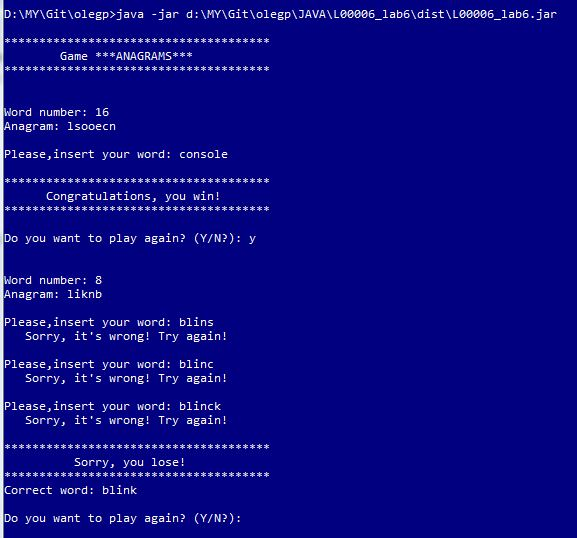
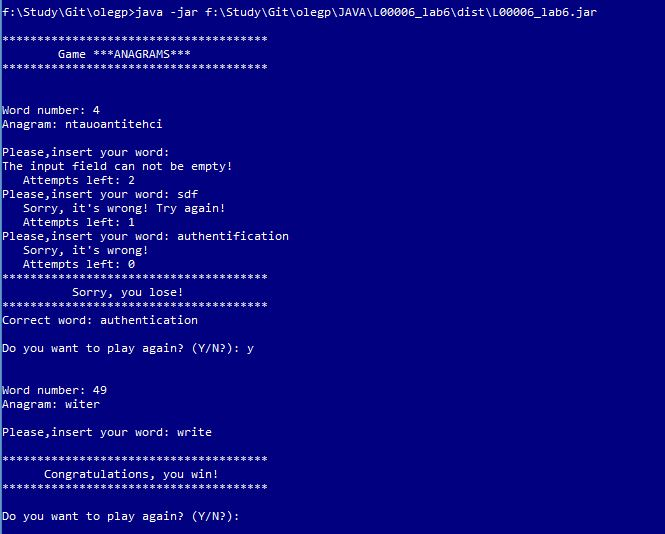
lab6

Changed region(s): [[0.0, 0.0, 0.9671, 1.0]]

diff --git a/JAVA/L00006_lab6/src/by/bsu/ibmt/groupPV115PO/porohnenko/model/logic/GameLogic.java b/JAVA/L00006_lab6/src/by/bsu/ibmt/groupPV115PO/porohnenko/model/logic/GameLogic.java
@@ -9,12 +9,14 @@
 package by.bsu.ibmt.groupPV115PO.porohnenko.model.logic;
 
 import by.bsu.ibmt.groupPV115PO.porohnenko.controller.Anagrams;
+import by.bsu.ibmt.groupPV115PO.porohnenko.model.util.ArrayCleaner;
 import by.bsu.ibmt.groupPV115PO.porohnenko.model.util.WordSelector;
 import by.bsu.ibmt.groupPV115PO.porohnenko.view.ConsoleView;
 
 public class GameLogic {
 
-    public static char[] array = WordSelector.getSimpleArray();
+    private static char[] array;
+    private static int attempt = 2;
 
     public static boolean Checker(char[] userWord) {
 
@@ -27,18 +29,35 @@ public class GameLogic {
     }
 
     public static void logic() {
-        for (int i = 0; i <= 2; i++) {
+        for (int i = 0; i <= attempt; i++) {
+
             //message for user
             ConsoleView.MessageInsertWord();
             ConsoleView.inputData();
 
-            if (GameLogic.Checker(ConsoleView.getUserWord())) {
-                ConsoleView.MessageWin();
-                break;
+            ArrayCleaner.cleaner(WordSelector.getSimpleArray());
+            array = ArrayCleaner.getClearArr();
+
+            if (ConsoleView.getUserArray().length != 0) {
+                if (ConsoleView.getUserArray().length == array.length) {
+                    if (GameLogic.Checker(ConsoleView.getUserWord())) {
+                        ConsoleView.MessageWin();
+                        break;
+                    }
+                } else {
+                    if (i < attempt) {
+                        ConsoleView.printMessage("   Sorry, it's wrong! Try again!\n");
+                    } else {
+                        ConsoleView.printMessage("   Sorry, it's wrong!\n");
+                    }
+                    System.out.printf("   Attempts left: %d", attempt - i);
+                }
             } else {
-                ConsoleView.printMessage("   Sorry, it's wrong! Try again!\n");
+                ConsoleView.printMessage("The input field can not be empty!\n");
+                System.out.printf("   Attempts left: %d", attempt - i);
             }
-            if (i == 2) {
+
+            if (i == attempt) {
                 ConsoleView.MessageLose();
                 ConsoleView.printMessage("Correct word: ");
                 ConsoleView.printMassiv(WordSelector.init(Anagrams.getIndex()));

diff --git a/JAVA/L00006_lab6/src/by/bsu/ibmt/groupPV115PO/porohnenko/view/ConsoleView.java b/JAVA/L00006_lab6/src/by/bsu/ibmt/groupPV115PO/porohnenko/view/ConsoleView.java
@@ -13,7 +13,8 @@ import java.util.Scanner;
 
 public class ConsoleView {
 
-    public static char[] userArray;
+    private static char[] userArray;
+    private static String line;
 
     public static void printNumber(int number) {
         System.out.println("\n\nWord number: " + number);
@@ -26,9 +27,13 @@ public class ConsoleView {
     public static char[] inputData() {
 
         Scanner sc = new Scanner(System.in);
-        String line = sc.nextLine();
+        line = sc.nextLine();
         userArray = line.toCharArray();
 
+        return userArray;
+    }
+
+    public static char[] getUserArray() {
         return userArray;
     }
 
@@ -47,7 +52,7 @@ public class ConsoleView {
     public static void MessageAnagram() {
         System.out.print("Anagram: ");
     }
-    
+
     public static void StartMessage() {
         System.out.println("\n**************************************");
         System.out.println("        Game ***ANAGRAMS***");
@@ -72,22 +77,4 @@ public class ConsoleView {
         }
         System.out.print("\n");
     }
-
-    /*public static void printUserWord(char[] array) {
-        ConsoleView.printMessage("User word: ");
-        for (int i = 0; i < array.length; i++) {
-            System.out.print(array[i]);
-        }
-        System.out.print("\n");
-    }*/
-
- /*public static char outputChar(char[] userWord) {
-
-        char letter = 0;
-        for (int i = 0; i < userWord.length; i++) {
-            letter = userWord[i];
-            System.out.println("letter " + (i + 1) + ": " + letter);
-        }
-        return letter;
-    }*/
 }

diff --git a/JAVA/L00006_lab6/src/by/bsu/ibmt/groupPV115PO/porohnenko/controller/Anagrams.java b/JAVA/L00006_lab6/src/by/bsu/ibmt/groupPV115PO/porohnenko/controller/Anagrams.java
@@ -23,12 +23,12 @@ public class Anagrams {
     private static int index; //generate random word position in word's array
 
     public static void main(String[] args) {
-        
+
         ConsoleView.StartMessage();
-        
+        size = WordsCounter.count(WordSelector.getMainArray());
+
         while (true) {
 
-            size = WordsCounter.count(WordSelector.getMainArray());
             index = Randomiser.randomIndex(size);
 
             //view number of random selected word

diff --git a/JAVA/L00006_lab6/src/by/bsu/ibmt/groupPV115PO/porohnenko/model/util/ArrayCleaner.java b/JAVA/L00006_lab6/src/by/bsu/ibmt/groupPV115PO/porohnenko/model/util/ArrayCleaner.java
@@ -32,12 +32,6 @@ public class ArrayCleaner {
         }
     }
 
-    public static void ClearSimpleArray() {
-        for (int i = 0; i < clearArr.length; i++) {
-            clearArr[i] = 0;
-        }
-    }
-
     public static char[] getClearArr() {
         return clearArr;
     }
